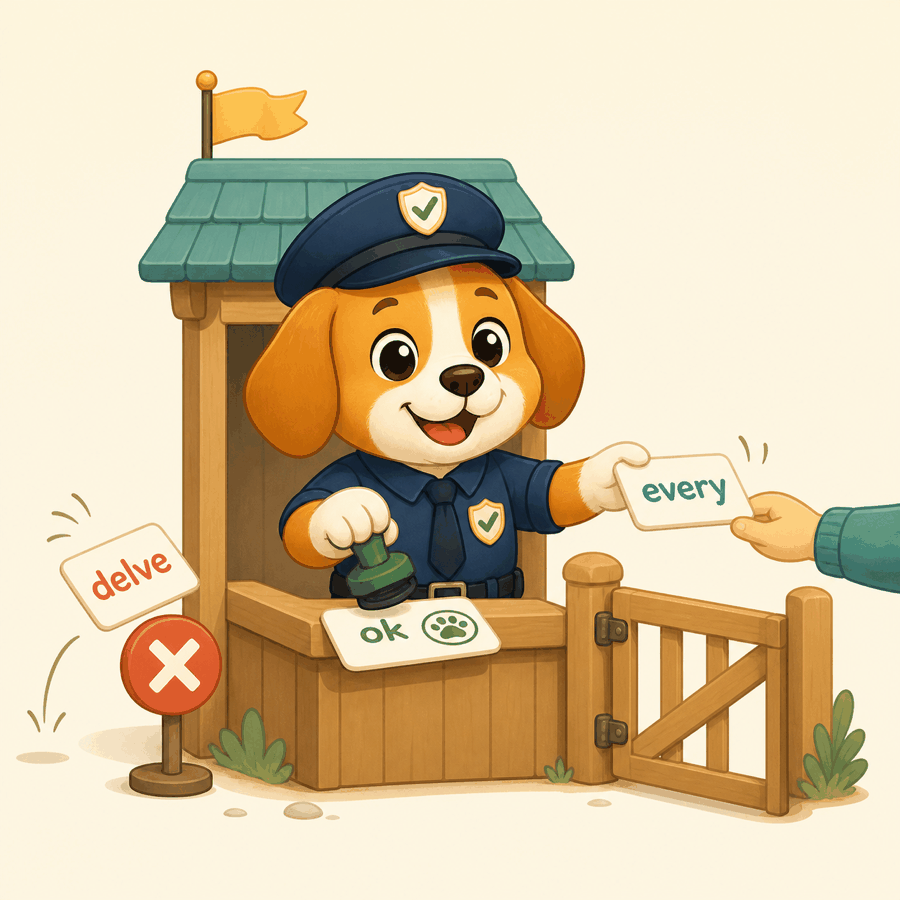
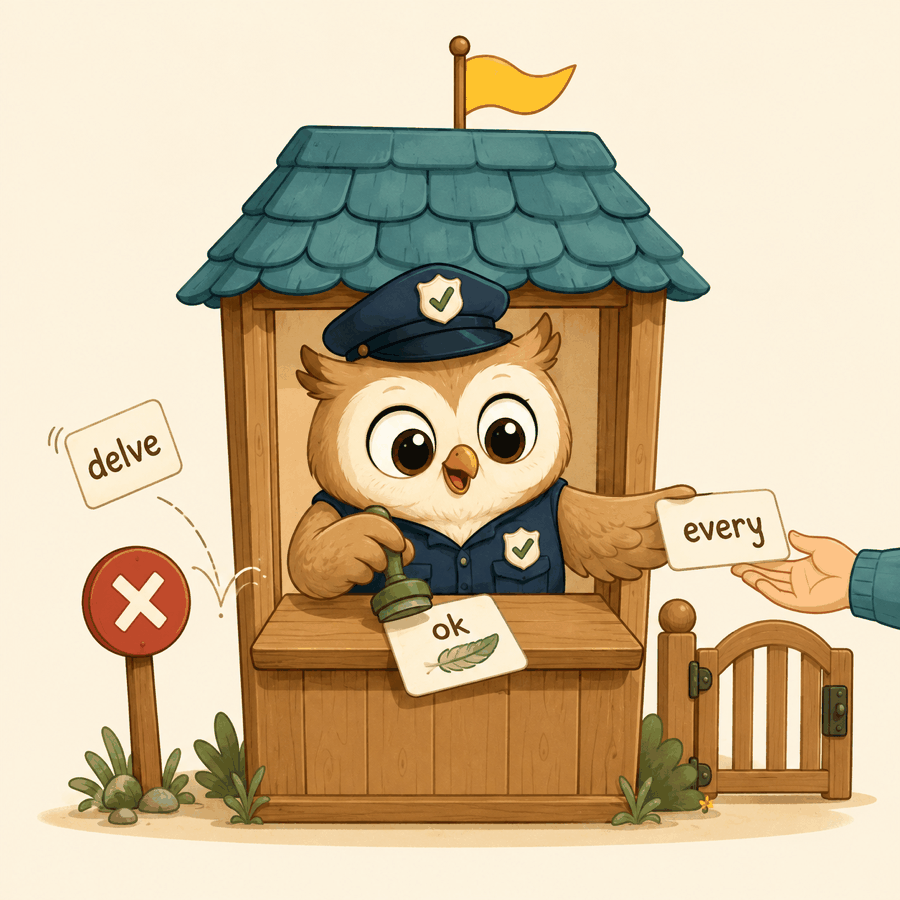
One puppy per project; the guard is an owl now

diff --git a/README.md b/README.md
@@ -1,7 +1,7 @@
 # vocabguard
 
 <p align="center">
-  <img src="docs/images/mascot.png" width="420" alt="A puppy in a guard cap at a checkpoint booth, stamping a card that says ok, bouncing a card that says delve off a red X, and handing a card that says every back to a person.">
+  <img src="docs/images/mascot.png" width="420" alt="An owl in a guard cap at a checkpoint booth, stamping a card that says ok, bouncing a card that says delve off a red X, and handing a card that says every back to a person.">
 </p>
 
 A [Pydantic AI](https://ai.pydantic.dev) capability that watches an agent's tool calls and
